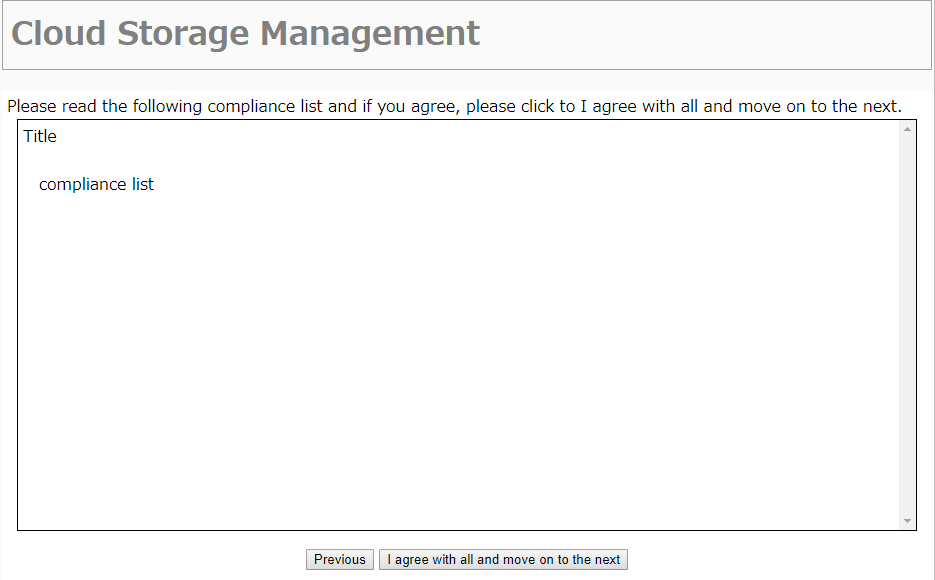
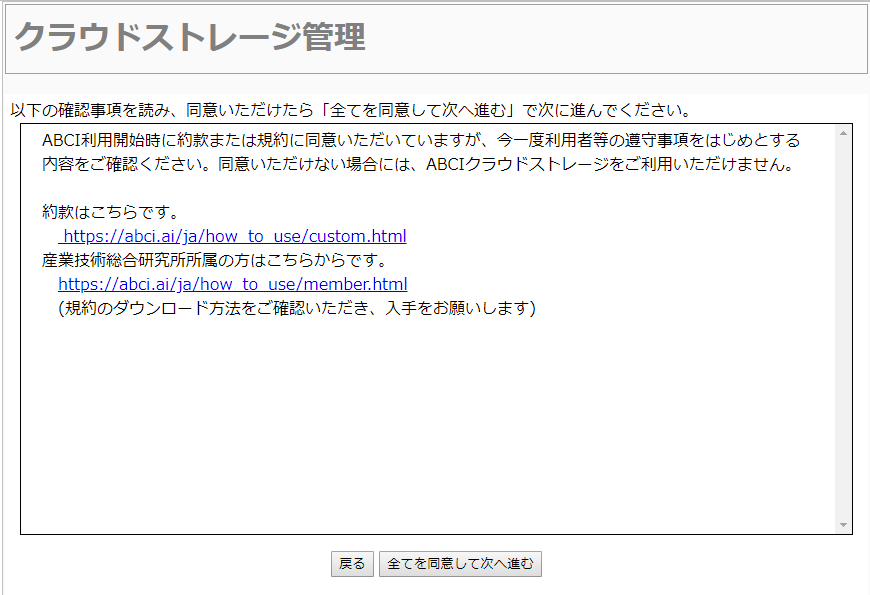
add en doc

Changed region(s): [[0.0, 0.0, 1.0, 1.0]]

diff --git a/portal/en/docs/02.md b/portal/en/docs/02.md
@@ -130,67 +130,71 @@ Click the "More Detail" button on the screen.
 
 The monthly ABCI point usage is displayed.
 
-## 2.7. クラウドストレージ管理
+## 2.7. Cloud Storage Usage
 
-サイドメニューから[クラウドストレージ管理]をクリックします。
+Click the "Cloud Storage Management" on the side menue.
  
 ![[[Screenshot]]](img/2_19.png)
 
-利用可能なグループ一覧が表示されます。
+The list of available ABCI groups is displayed.
 
-### 2.7.1. クラウドストレージアカウント管理
+### 2.7.1. Manage ABCI Cloud Storage account
 
-画面上の[CSアカウント管理]をクリックします。
+Click "Manage CS Account" button on the screen.
 
 ![[[Screenshot]]](img/2_20.png)
 
-### 2.7.2. クラウドストレージアカウント追加
+#### 2.7.1.1. Add ABCI Cloud Storage account
 
-画面上の[CSアカウント追加]をクリックします。
+Click "Add CS Account" button on the screen.
 
 ![[[Screenshot]]](img/2_21.png)
 
-確認事項を読み、同意する場合は「全てを同意して次へ進む」をクリックします。
+Refer to the terms of use and click the "I agree with all and move on to the next" button if you agree.
 
 ![[[Screenshot]]](img/2_22.png)
 
-クラウドストレージアカウントの追加が完了すると、クラウドストレージアカウント追加完了画面が表示されます。
-「CSアカウント一覧へ」をクリックします。
+A screen appears that the new account has been created. Click "To CS Account list" button on the screen.
 
-### 2.7.3. アクセスキー新規発行
+### 2.7.2. Manage Access key
+
+When Cloud Storage account is created, "Access Key Management" button is displayed in the operation column each Cloud Storage account.
 
 ![[[Screenshot]]](img/2_23.png)
 
-画面上の[アクセスキー管理]をクリックします。
+Click "Manage access key" button on the screen.
 
 ![[[Screenshot]]](img/2_24.png)
 
-画面上の[アクセスキーの新規発行]をクリックすると確認ダイアログが表示されますので「OK」をクリックします。
+Secret access keys can be controlled on this screen, such as issued, delete and reissue.
+
+#### 2.7.2.1 Create New Access Key
+
+Click "issue a new access key" button on the screen, and dialog box appear. Click "OK" button.
 
 ![[[Screenshot]]](img/2_25.png)
 
-アクセスキーの新規発行が完了すると、アクセスキーの新規発行完了画面が表示されます。
-「アクセスキー管理へ」をクリックします。
+A screen appears that the new access key has been issued. Click "To access key manegement"
 
-### 2.7.4. アクセスキー削除
+#### 2.7.2.2. Delete Access Key
 
 ![[[Screenshot]]](img/2_26.png)
 
-画面上の削除したいアクセスキーIDの[削除]をクリックすると確認ダイアログが表示されますので「OK」をクリックします。
+Click "Delete" button which you want to delete, and click "OK" on the dialog box.
 
 ![[[Screenshot]]](img/2_27.png)
 
-アクセスキーの削除が完了すると、アクセスキー管理画面が表示されます。
+When the access key has been deleted, access key management screen appears. 
 
-### 2.7.5. アクセスキー再発行
+#### 2.7.5. Reissue Access Key
 
-画面上の再発行したいアクセスキーIDの[再発行]をクリックすると確認ダイアログが表示されますので「OK」をクリックします。
+Click "Reissue" button which you want to reissue, and click "OK" on the dialog box.
 
 ![[[Screenshot]]](img/2_28.png)
 
-「アクセスキー管理へ」をクリックします。
+Click "To access key management" button on the screen.
 
 ![[[Screenshot]]](img/2_29.png)
 
-アクセスキー管理画面が表示されます。
+Access key management screen is displayed.
 

diff --git a/portal/en/docs/03.md b/portal/en/docs/03.md
@@ -8,7 +8,7 @@ Responsible persons and users who are granted the user administrator authority c
 - Refer to ABCI point usage history
 - Refer to ABCI point addition history
 - Manage Group
-- 「クラウドストレージ管理」の利用開始、管理者用クラウドストレージアカウントの追加、アクセスキーの一括削除
+- Manage ABCI Cloud Storage
 
 ## 3.2. Node Reservation / Cancellation
 
@@ -198,52 +198,53 @@ To save user information, click the "OK" button.
 
 When user information is saved successfully, the screen for saving user information completion will be displayed.
 
-## 3.6. クラウドストレージ管理
+## 3.6. Manage ABCI Cloud Strage
 
-サイドメニューから[クラウドストレージ管理]をクリックします。
+Click the "Cloud Storage Management" on the side menue.
  
 ![[[Screenshot]]](img/3_28.png)
 
-利用可能なグループ一覧が表示されます。
+The list of available ABCI groups is displayed.
 
-### 3.6.1 クラウドストレージ利用開始
+### 3.6.1 Start ABCI Cloud Storage
 
-画面上の[利用開始]をクリックします。
+Clicl "Start using" button on the screen.
 
 ![[[Screenshot]]](img/3_29.png)
 
-確認事項を読み、同意する場合は「全てを同意して次へ進む」をクリックします。
+Refer to the terms of use and click the "I agree with all and move on to the next" button if you agree.
 
 ![[[Screenshot]]](img/3_30.png)
 
-クラウドストレージが利用可能な状態になると、利用状態に[利用中]と表示されます。
+The screen return to ABCI groups list.
+When Cloud Storage has been available, "In use" is displayed in the usage status column.
 
-### 3.6.2 クラウドストレージアカウント管理
+### 3.6.2 Manage ABCI Cloud Storage account for administorator
 
-画面上の[CSアカウント管理]をクリックします。
+Click "Manage CS Account for Administorator" button on the screen.
 
 ![[[Screenshot]]](img/3_31.png)
 
-### 3.6.3. クラウドストレージアカウント追加
+#### 3.6.2.1 Add Cloud Storage account
 
-画面上の[管理者用CSアカウント追加]をクリックすると確認ダイアログが表示されますので「OK」をクリックします。
+Click "Add CS Account for Administorator" button on the screen, and click "OK" on the dialog box.
 
 ![[[Screenshot]]](img/3_32.png)
 
-管理者用のクラウドストレージアカウントの追加が完了すると、管理者用のクラウドストレージアカウント追加完了画面が表示されます。  
-「CSアカウント一覧へ」をクリックします。
+A screen appears that the new account for Administorator has been created. 
+Click "To CS Account list" button on the screen.
 
 ![[[Screenshot]]](img/3_33.png)
 
-ABCIグループに所属している他の利用者がクラウドストレージアカウントを追加している場合は一覧に表示されます。
+All users belonging to the ABCI group and adding Cloud Storage account is displayed in the list.
 
 ![[[Screenshot]]](img/3_34.png)
 
-### 3.6.4. アクセスキーの一括削除
+#### 3.6.2.2 Delete Access Keys at Once
 
-アクセスキーを削除したいクラウドストレージアカウントの行にチェックを付け、[アくセスキーの一括削除]をクリックすると確認ダイアログが表示されますので[OK]をクリックします。
+Check the check boxes that you want to delete and Click "Delete access key", dialog box to confirm deletion of the access keys appears.
+Click "OK" on the dialogbox, the access keys are deleted.
 
 ![[[Screenshot]]](img/3_35.png)
 
-アクセスキーの削除が完了すると、アクセスキーの削除完了画面が表示されます。
-
+A screen appears that the access keys has been deleted. 
